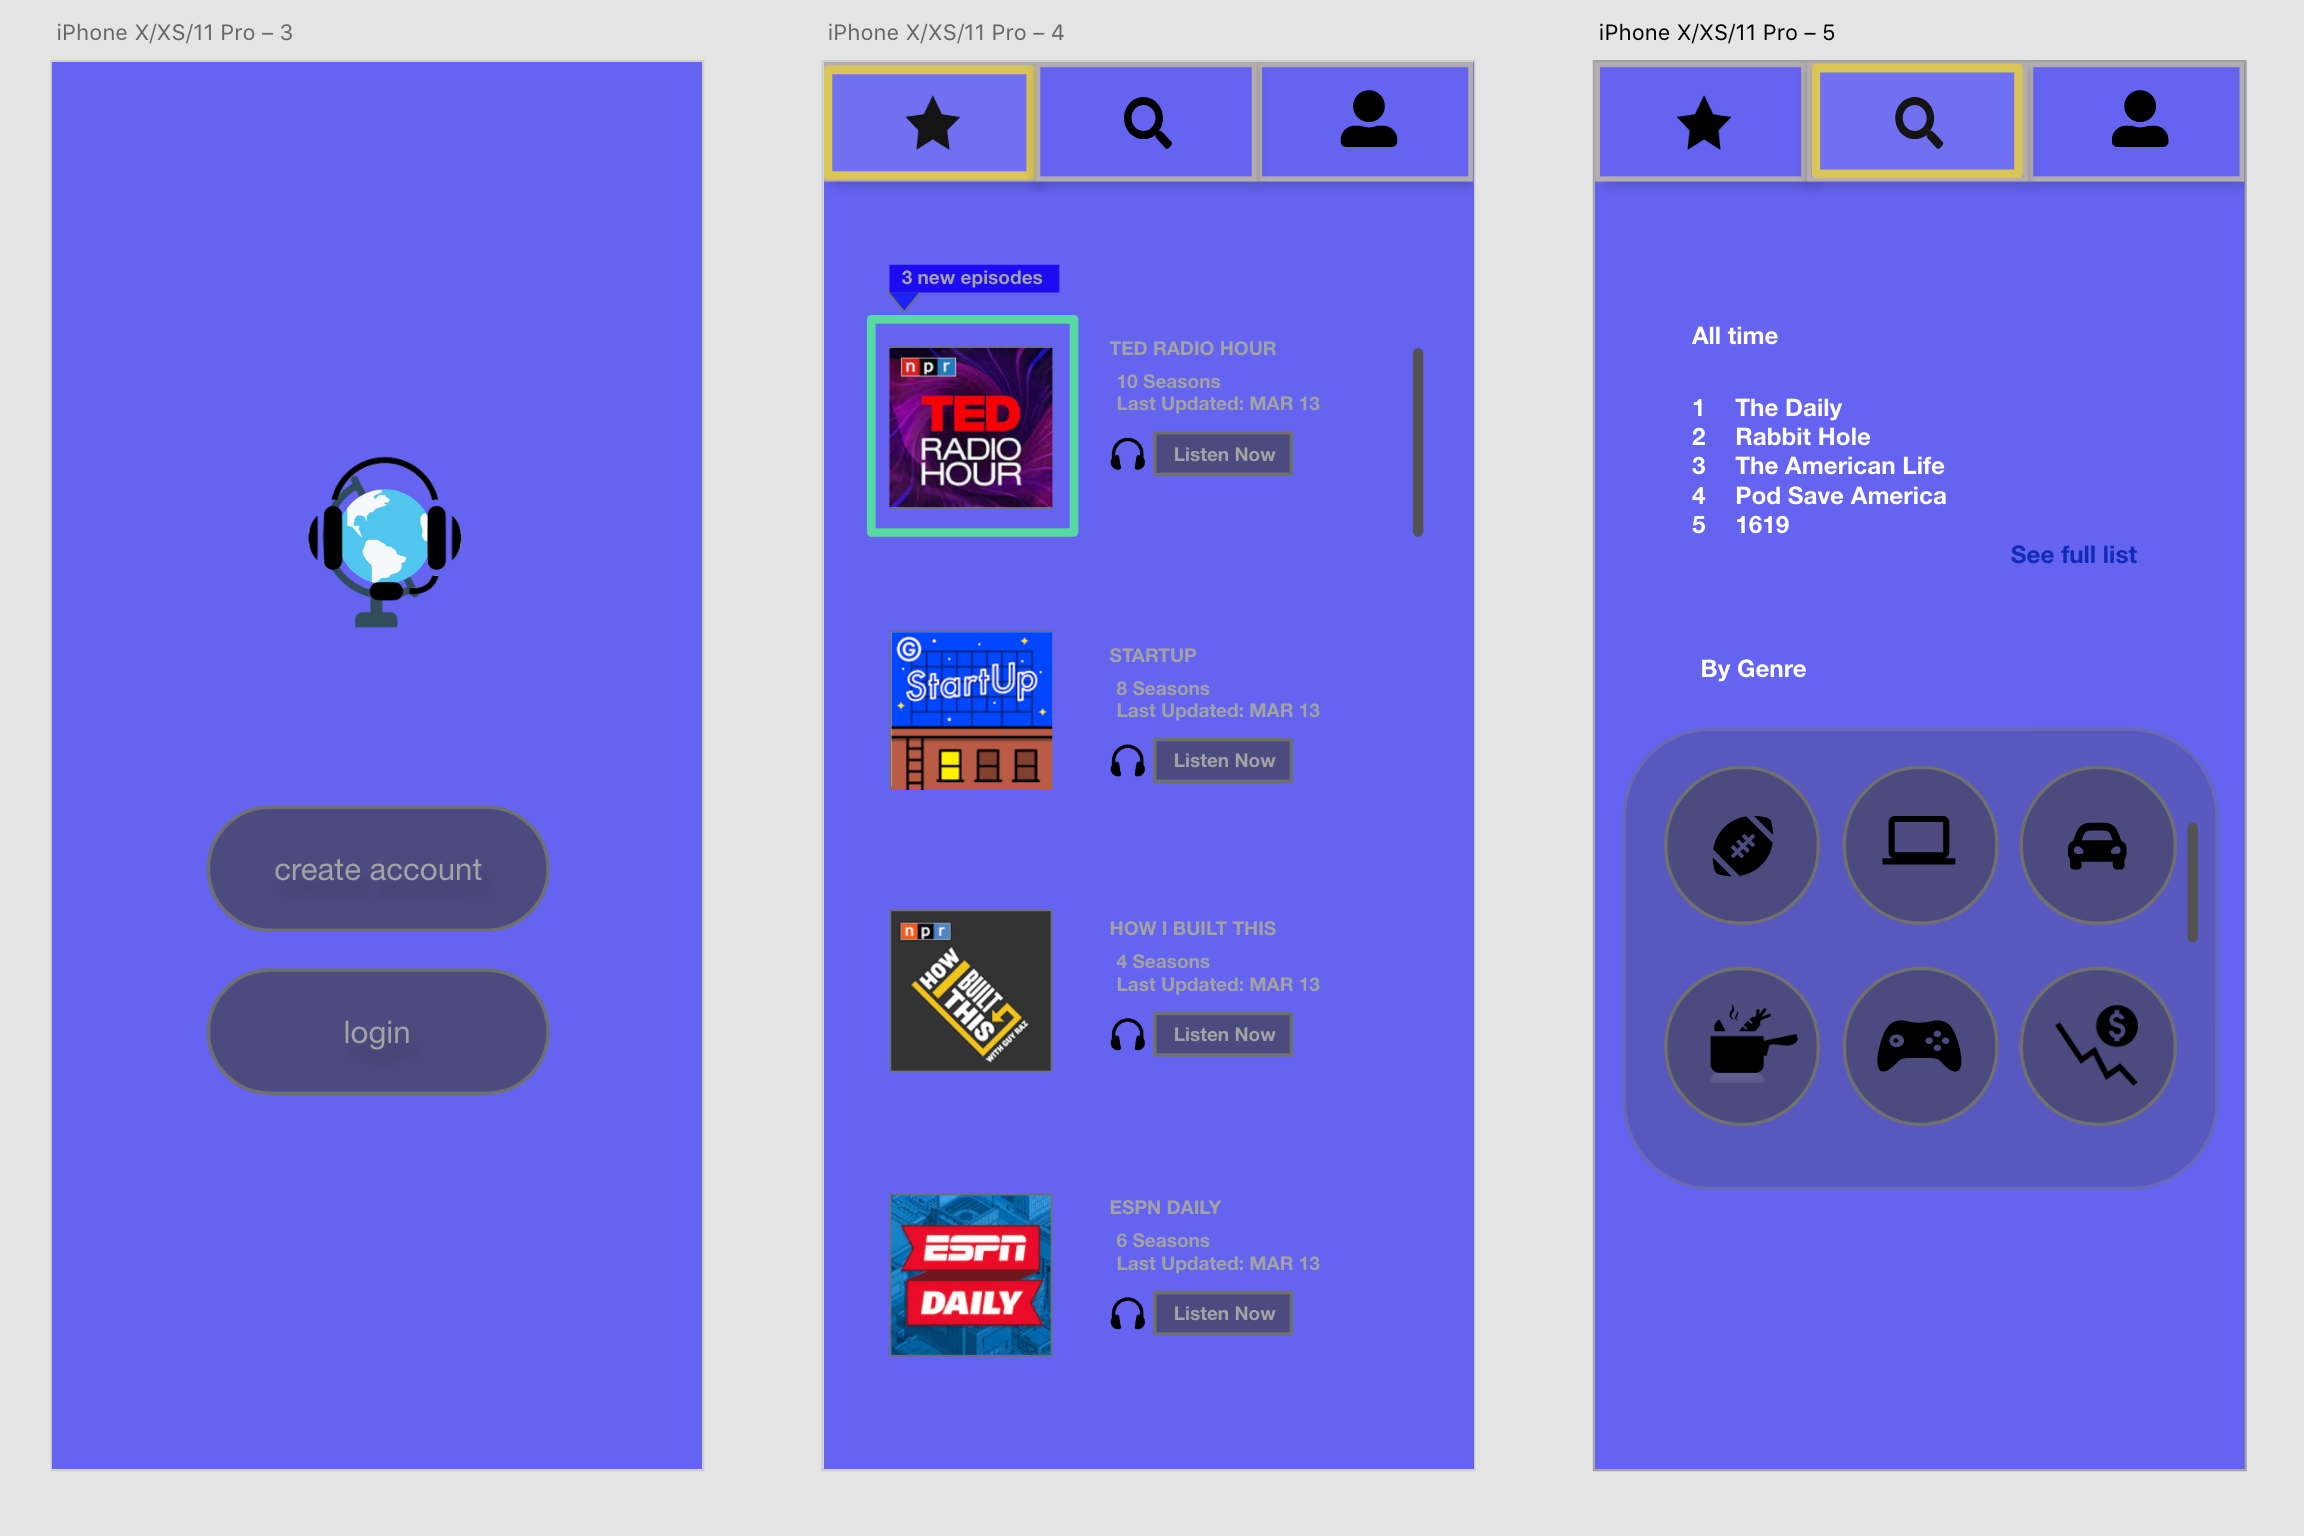
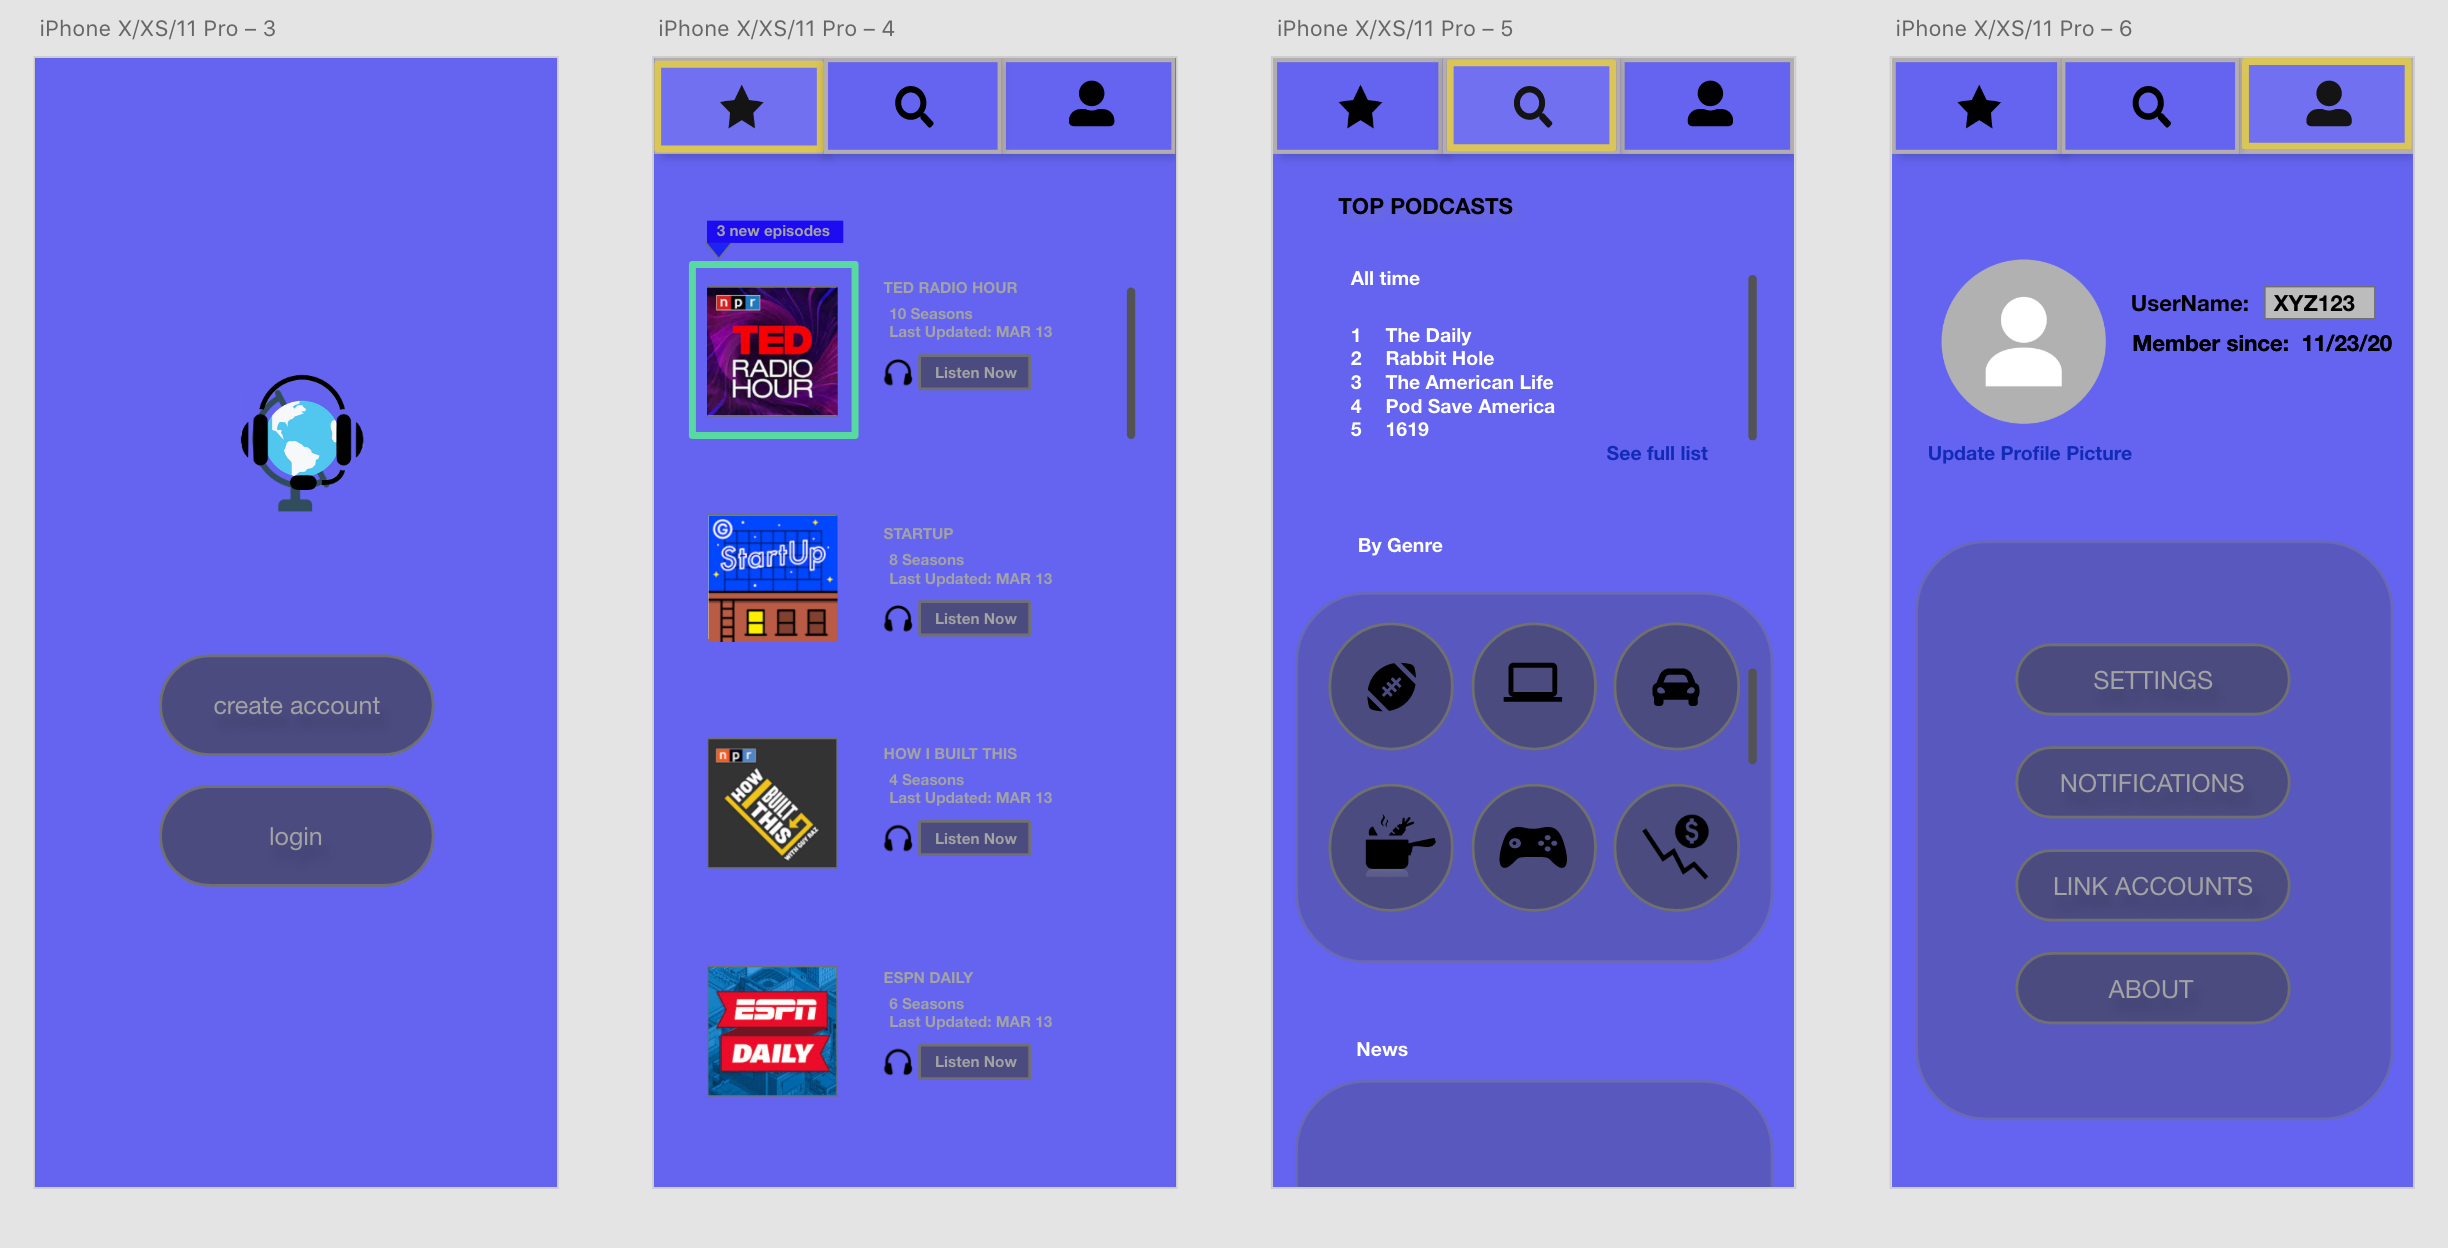
Added profile page to wireframe

diff --git a/README.MD b/README.MD
@@ -1,1 +1,1 @@
-![InitialWireFrame](assets/initialwireframe.png)
+![InitialWireFrame](Assets/initialwireframe.png)
